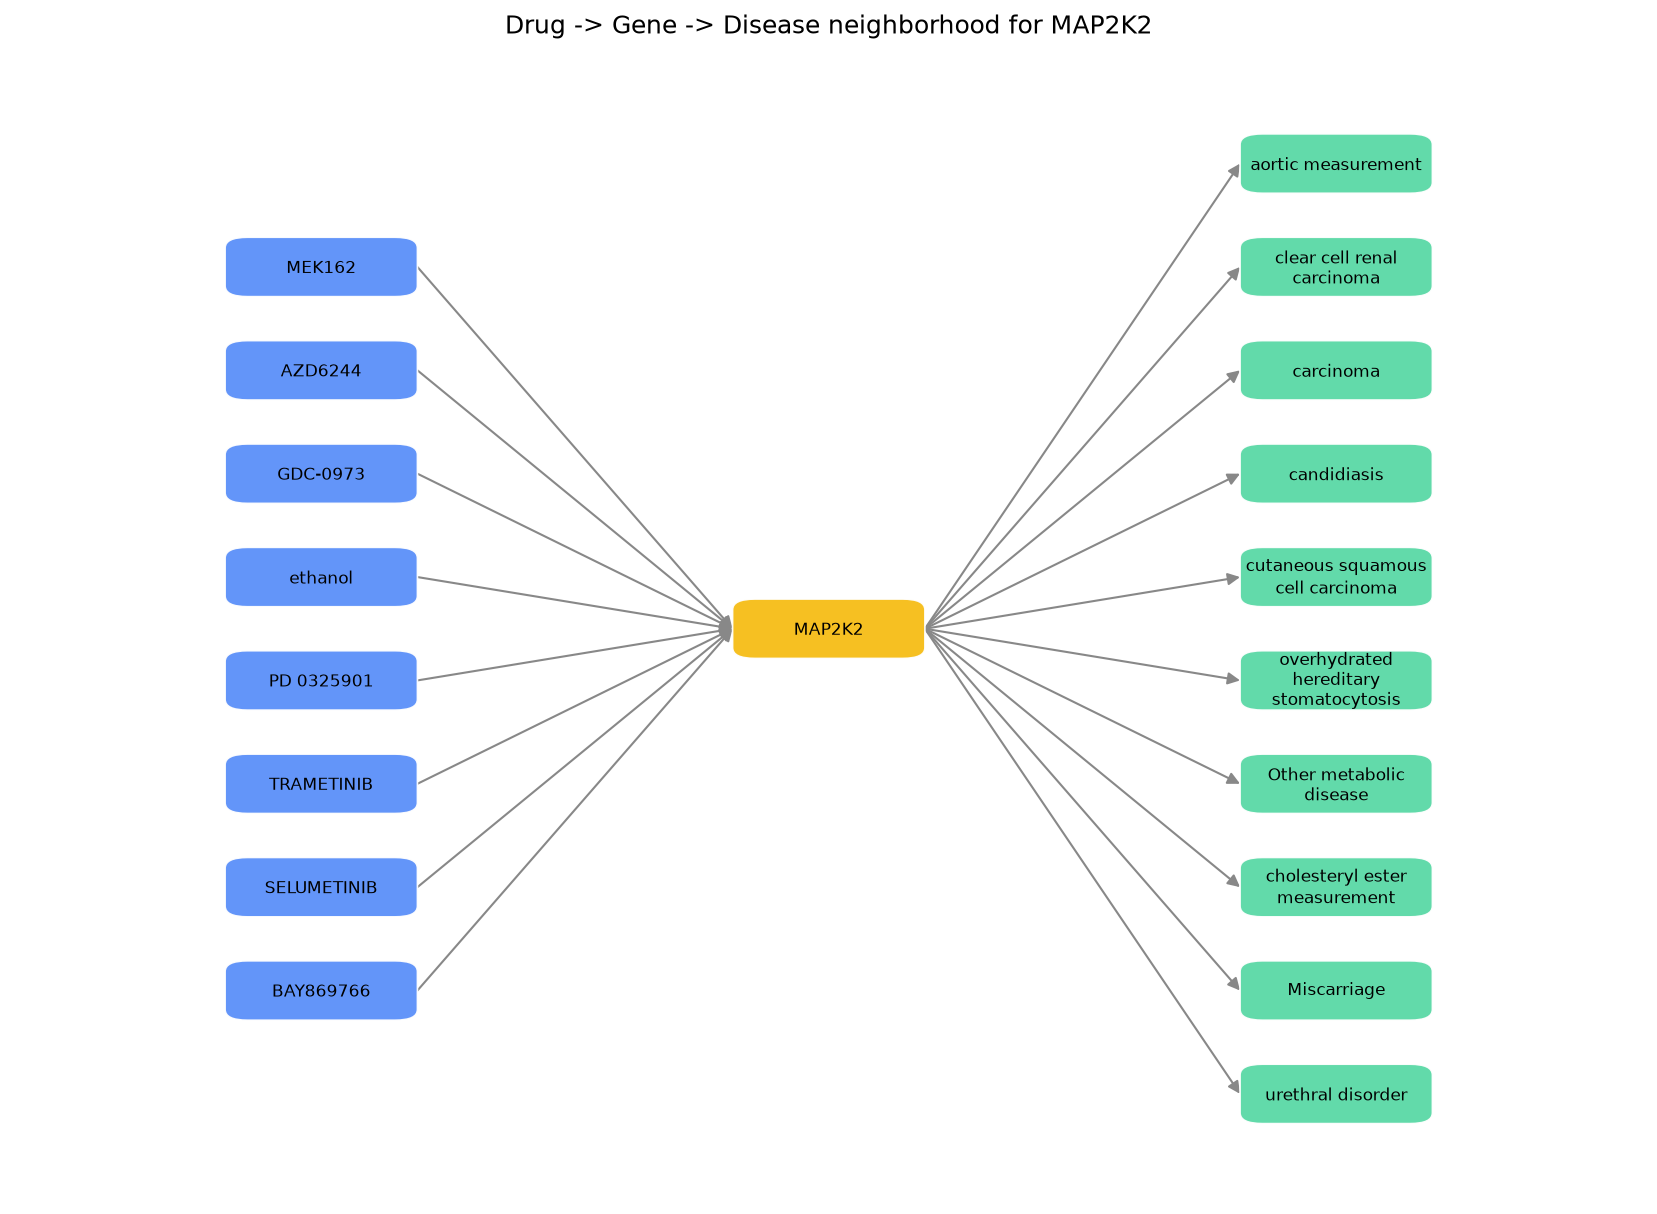
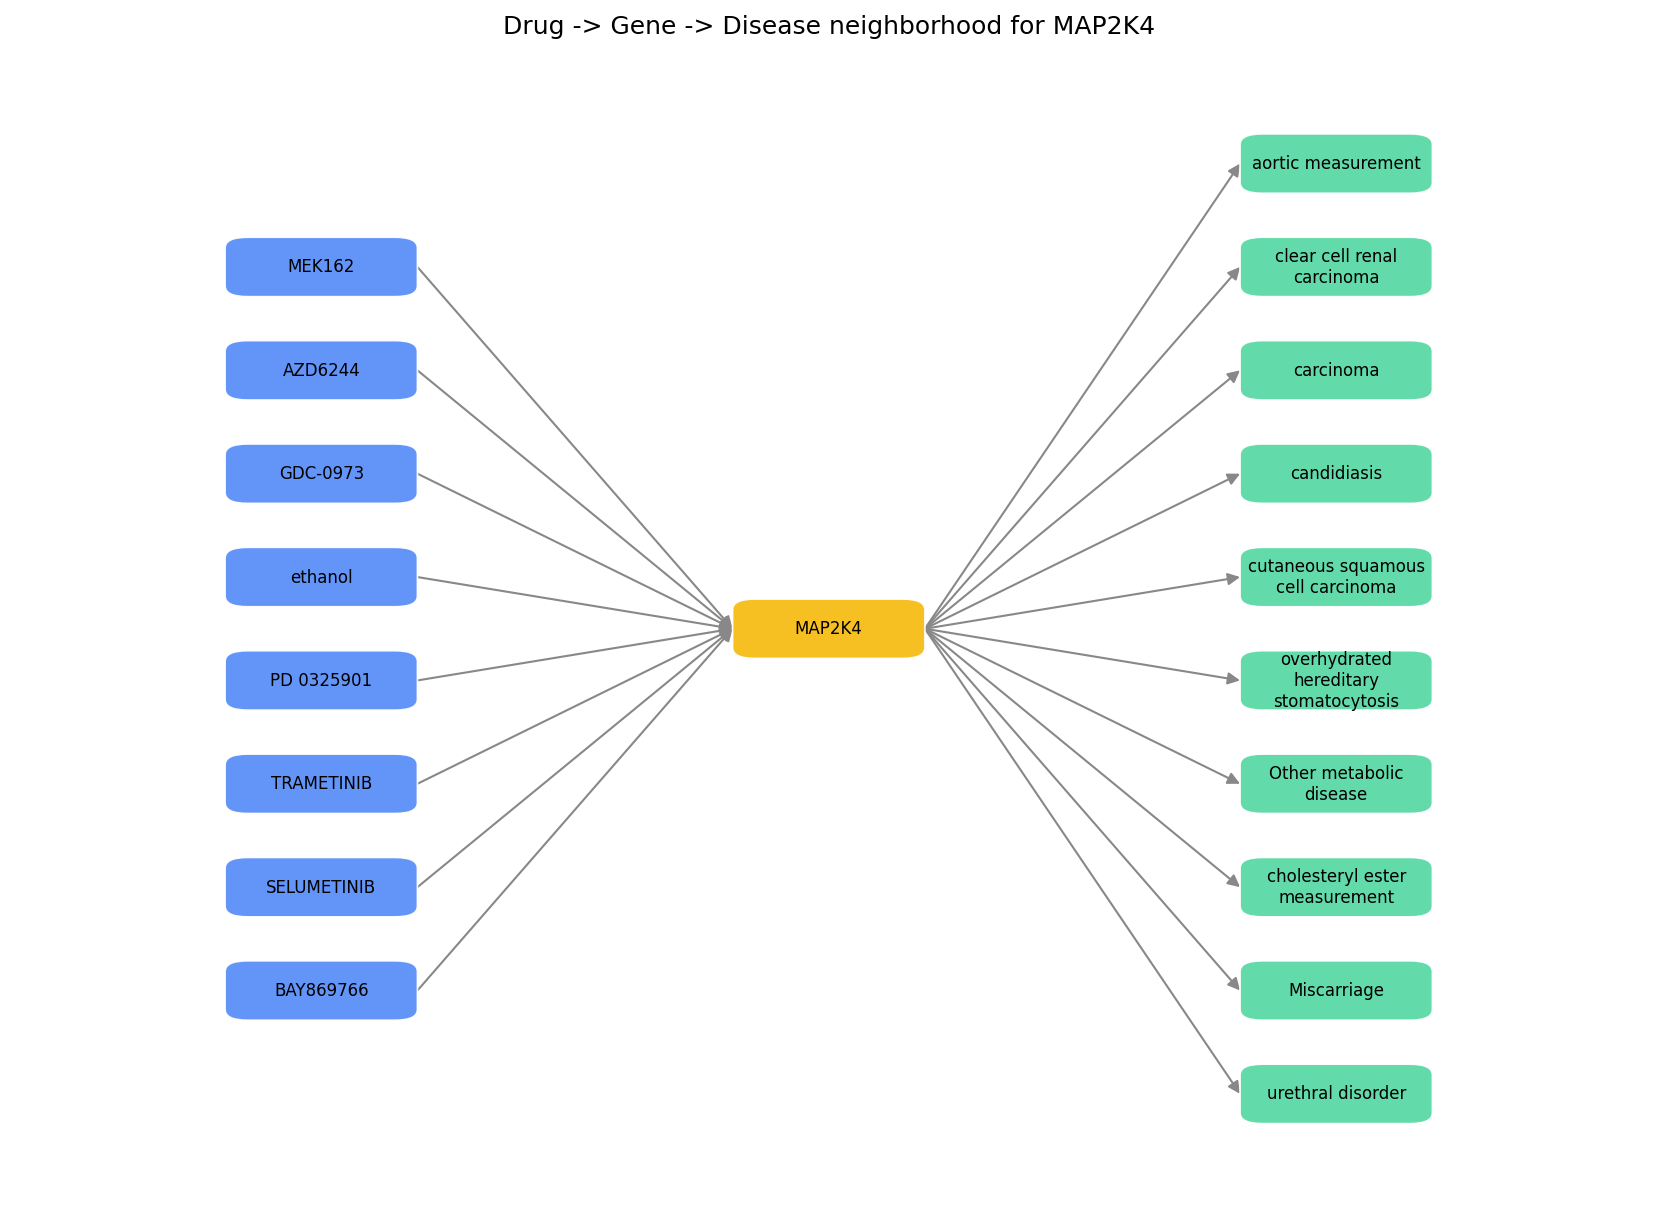
Fix demo gene label to MAP2K4 and update stale docs. NCBIGene:6416 is MAP2K4; drop the MAP2K2 override and refresh docs after the pipeline restructure.

diff --git a/src/visualize.py b/src/visualize.py
@@ -221,7 +221,8 @@ def draw_subgraph(gene, max_drugs, max_diseases, gene_name):
 if __name__ == "__main__":
     ap = argparse.ArgumentParser()
     ap.add_argument("--gene", default="NCBIGene:6416")
-    ap.add_argument("--gene-name", default="MAP2K2")
+    # Default to the name in nodes.csv. Only pass --gene-name to override it.
+    ap.add_argument("--gene-name", default=None)
     ap.add_argument("--max-drugs", type=int, default=8)
     ap.add_argument("--max-diseases", type=int, default=10)
     args = ap.parse_args()

diff --git a/output/before_after_examples.md b/output/before_after_examples.md
@@ -3,7 +3,7 @@
 Real examples from the generated output, showing how a raw source row becomes a
 Biolink style triple, and how two independent sources connect on a shared gene.
 
-The shared gene in these examples is NCBIGene:6416 (MAP2K2, also called MEK2).
+The shared gene in these examples is NCBIGene:6416 (MAP2K4, also called MKK4).
 
 ## Drug-gene interaction (from DGIdb)
 
@@ -11,7 +11,7 @@ Raw DGIdb row:
 
 ```
 gene_symbol,drug_name,interaction_type
-MAP2K2,TRAMETINIB,inhibitor
+MAP2K4,TRAMETINIB,inhibitor
 ```
 
 Becomes (one edge in edges.csv):
@@ -22,12 +22,17 @@ DRUG_NAME:TRAMETINIB,biolink:negatively_regulates,NCBIGene:6416,biolink:Chemical
 ```
 
 What happened in the mapping:
-- The gene symbol MAP2K2 was resolved to NCBIGene:6416 via the HGNC map.
+- The gene symbol MAP2K4 was resolved to NCBIGene:6416 via the HGNC map.
 - The source interaction type "inhibitor" was mapped to biolink:negatively_regulates.
 - The drug is the subject and the gene is the object, matching the drug-acts-on-gene direction.
 
-Several MEK inhibitors in the sample map to this same gene the same way, including
-Trametinib, Selumetinib, and Cobimetinib.
+Eight drugs in the sample map to this gene the same way, including Trametinib,
+Selumetinib, and Cobimetinib (listed as GDC-0973).
+
+Worth noting: those are MEK1/MEK2 inhibitors, and MAP2K4 is MKK4, a different kinase.
+DGIdb records the association, so the pipeline records it and keeps the source. Deciding
+whether an interaction is real is a curation question, not a mapping one, and the
+`knowledge_source` column is there so a consumer can weigh it.
 
 ## Gene-disease association (from Open Targets)
 
@@ -35,7 +40,7 @@ Raw Open Targets row:
 
 ```
 ensembl_id,disease_efo_id,association_score
-ENSG00000126934,EFO_0020865,...
+ENSG00000065559,EFO_0020865,...
 ```
 
 Becomes:
@@ -46,11 +51,12 @@ NCBIGene:6416,biolink:gene_associated_with_condition,EFO:0020865,biolink:Gene,bi
 ```
 
 What happened:
-- The Ensembl id ENSG00000126934 was resolved to NCBIGene:6416 via HGNC, the same id the
+- The Ensembl id ENSG00000065559 was resolved to NCBIGene:6416 via HGNC, the same id the
   gene received from the DGIdb side, so the two sources connect on one gene node.
 - The disease id was converted from underscore to colon form (EFO_0020865 to EFO:0020865).
   Some disease ids in the sample are then normalized to MONDO via release xrefs (see below);
-  ids without a unique xref (including EFO:0020865) stay in their original ontology.
+  ids without a unique xref (including EFO:0020865) stay in their original ontology and are
+  named from OLS4 instead. EFO:0020865 is "aortic measurement".
 
 ## Cross-ontology normalization to MONDO
 
@@ -64,7 +70,7 @@ id,category,name
 EFO:0009491,biolink:Disease,EFO:0009491
 ```
 
-After normalization + label enrichment:
+After normalization + naming:
 
 ```
 id,category,name
@@ -78,16 +84,19 @@ What happened:
 - HP, OBA, GO, and MP nodes are left unchanged (phenotype / non-disease ontologies).
 - Full report: `output/mondo_normalization.csv`.
 
-## MONDO disease name enrichment
+## Naming every disease node
 
-Open Targets also uses MONDO disease ids directly. Before enrichment, the node name was the raw id:
+Names come from two passes. MONDO nodes take their label from the release. Anything still
+showing its id after that is looked up in OLS4.
+
+Before:
 
 ```
 id,category,name
 MONDO:0002108,biolink:Disease,MONDO:0002108
 ```
 
-After lookup against MONDO release v2026-06-02 (`mondo_nodes.tsv`):
+After:
 
 ```
 id,category,name
@@ -95,9 +104,13 @@ MONDO:0002108,biolink:Disease,thyroid cancer
 ```
 
 What happened:
-- `mondo_nodes.tsv` maps `MONDO:0002108` → `thyroid cancer`.
-- After normalization, 824 MONDO disease nodes exist; 823 received labels. One obsolete
-  term (`MONDO:0700044`) keeps the raw id. Full report: `output/mondo_name_enrichment.csv`.
+- `mondo_nodes.tsv` maps `MONDO:0002108` to `thyroid cancer`.
+- 824 MONDO disease nodes exist after normalization; 823 were named from the release.
+  The one it missed, `MONDO:0700044`, is deprecated, and `load_mondo_labels` skips
+  deprecated terms by default. The OLS4 pass picked it up as
+  "obsolete TUBB2A-related tubulinopathy", which is why the two passes exist.
+- The remaining 272 non-MONDO ids (EFO, HP, OBA, GO, MP, Orphanet) were all named from OLS4.
+- Every disease node ends up with a readable name. Full report: `output/naming.csv`.
 
 ## Why this matters
 
@@ -106,11 +119,11 @@ edge share a node. That produces a connected path across two independently sourc
 
 ```
 DRUG_NAME:TRAMETINIB --negatively_regulates--> NCBIGene:6416 --gene_associated_with_condition--> MONDO:0002026
-       (DGIdb)                                   MAP2K2 / MEK2                                  (Open Targets)
+       (DGIdb)                                     MAP2K4                                        (Open Targets)
 ```
 
-(Many gene-disease edges in the graph now use MONDO ids with disease names; some EFO ids
-without a unique xref, such as EFO:0020865 for this gene, remain as EFO.)
+(Many gene-disease edges use MONDO ids; EFO ids without a unique xref, such as EFO:0020865
+for this gene, stay as EFO and are named from OLS4.)
 
 In the full output this one gene connects 8 drugs to 12 diseases, so the graph supports
 questions like "which diseases are associated with a gene that this drug inhibits," which is

diff --git a/data/ontology_labels/README.md b/data/ontology_labels/README.md
@@ -1,64 +1,63 @@
 # Non-MONDO ontology labels
 
-Human-readable names for the disease nodes that the MONDO pass leaves unnamed.
+Human-readable names for the disease nodes the MONDO pass leaves unnamed.
 
 ## Why this exists
 
-`mondo_normalize.py` maps EFO, DOID, Orphanet, and OTAR ids to MONDO where a
-unique xref exists, and `mondo_labels.py` names every node that became MONDO.
-Ids with no unique xref stay in their source ontology and keep the id as their
-name:
+Step 3 of the pipeline maps EFO, DOID, Orphanet, and OTAR ids to MONDO where a unique
+xref exists, and step 4 names every node that became MONDO. Ids with no unique xref stay
+in their source ontology and keep the id as their name:
 
 ```
 EFO:0006890,biolink:Disease,EFO:0006890
 HP:0040187,biolink:Disease,HP:0040187
 ```
 
-A node named `HP:0040187` is unusable — unreadable to a person, and any
-downstream consumer returns database codes where an answer belongs. Roughly a
-quarter of disease nodes are in this state after the MONDO pass.
+A node named `HP:0040187` is unusable. Unreadable to a person, and any downstream consumer
+returns database codes where an answer belongs. Roughly a quarter of disease nodes are in
+this state after the MONDO pass.
 
 ## Source
 
-Labels come from the **EBI Ontology Lookup Service (OLS4)**:
-<https://www.ebi.ac.uk/ols4>
+Labels come from the **EBI Ontology Lookup Service (OLS4)**: <https://www.ebi.ac.uk/ols4>
 
-One resolver covers every ontology still present after MONDO normalization
-(EFO, HP, OBA, GO, MP, Orphanet), rather than a downloader per ontology.
+One resolver covers every ontology still present after MONDO normalization (EFO, HP, OBA,
+GO, MP, Orphanet) rather than a downloader per ontology.
 
-Endpoint used: `https://www.ebi.ac.uk/ols4/api/terms?obo_id={CURIE}`
+Endpoint: `https://www.ebi.ac.uk/ols4/api/terms?obo_id={CURIE}`
 
-When several ontologies return the same `obo_id` (importing ontologies mirror
-each other's terms), the term is chosen by ranking non-obsolete above obsolete
-first, then the defining ontology above an importing one. Obsolete terms are
-labelled "obsolete <name>" in OLS, so a live label from an importing ontology
-is the more useful display name even though the defining ontology is more
-authoritative. The chosen ontology is recorded per row.
+When several ontologies return the same `obo_id`, because importing ontologies mirror each
+other's terms, the term is ranked non-obsolete first, then defining ontology. OLS names
+obsolete terms "obsolete <name>", so a live label from an importing ontology is the better
+display name even though the defining ontology is more authoritative. The chosen ontology is
+recorded per row.
 
 ## Fetch (committed)
 
 ```
-python src/fetch_ontology_labels.py
+python src/fetch.py labels
 ```
 
-Unlike `data/mondo/mondo_nodes.tsv` (~23 MB, gitignored), `labels.tsv` covers
-only the ids this graph actually contains and is small enough to commit. That
-keeps `ontology_labels.py` and `check_labels.py` fully offline and the pipeline
-reproducible without network access.
+Unlike `data/mondo/mondo_nodes.tsv` (~23 MB, gitignored), `labels.tsv` covers only the ids
+this graph contains and is small enough to commit. That keeps step 4 offline and the
+pipeline reproducible without network access.
 
-The fetch is resumable — ids already cached are skipped, including ids
-previously recorded as `not_found`. Re-query everything with `--refresh`, or
-smoke-test with `--limit 10`.
+It reads `output/nodes.csv` to decide which ids need a label, so the pipeline has to have
+run at least once first.
+
+The fetch is resumable. Ids already cached are skipped, including ids previously recorded
+as `not_found`. Re-query everything with `--refresh`, or smoke-test with `--limit 10`.
 
 ## Apply
 
+Naming happens in step 4 of the pipeline, using this cache:
+
 ```
-python src/ontology_labels.py            # writes output/nodes.csv
-python src/ontology_labels.py --dry-run  # report only
-python src/check_labels.py               # exits 1 if any node is still named by id
+python src/pipeline.py --hgnc hgnc_complete_set.txt --mondo-nodes data/mondo/mondo_nodes.tsv
+python src/validate.py     # exits 1 if any node is still named by its id
 ```
 
-Report: `output/ontology_name_enrichment.csv`
+Report: `output/naming.csv`, rows with `label_source=ols4`.
 
 ## Schema
 
@@ -75,10 +74,9 @@ Report: `output/ontology_name_enrichment.csv`
 
 ## A category observation
 
-Several ids reaching this stage are not diseases. Open Targets associates genes
-with HP and MP phenotypes, OBA attributes, and at least one GO biological
-process, all of which the ingest types as `biolink:Disease`.
+Several ids reaching this stage are not diseases. Open Targets associates genes with HP and
+MP phenotypes, OBA attributes, and one GO biological process, all of which the ingest types
+as `biolink:Disease`.
 
-`ontology_labels.py` reports this in the `suggested_category` column and changes
-nothing. Correcting the categories is a mapping decision, not a labelling one —
-see `mappings/mapping_decisions.md`.
+Step 4 reports this in the `suggested_category` column and changes nothing. Correcting the
+category is a mapping decision, not a labelling one. See `mappings/mapping_decisions.md`.

diff --git a/mappings/mapping_decisions.md b/mappings/mapping_decisions.md
@@ -45,18 +45,18 @@ Decisions made:
 Open Targets MONDO disease nodes were initially stored with the raw MONDO id as the display
 name (for example `MONDO:0002108`). The MONDO release asset `mondo_nodes.tsv`
 (v2026-06-02) provides authoritative id → label mappings. When `--mondo-nodes` is passed
-to `map_to_biolink.py`, MONDO-prefixed disease nodes are enriched with the release label
-(for example `breast carcinoma`). Obsolete MONDO terms are skipped for naming; unmatched
-ids keep the CURIE as the name.
+to `pipeline.py`, step 4 names MONDO-prefixed disease nodes from the release label
+(for example `breast carcinoma`). Obsolete MONDO terms are skipped in this pass, so
+anything the release does not name falls through to the OLS4 pass below.
 
 ### OLS4 labels for non-MONDO disease nodes (added)
 
 After MONDO naming, 273 of 1,096 disease nodes still displayed a bare CURIE (mostly EFO,
 plus HP, OBA, Orphanet, GO, MP, and one MONDO id absent from the pinned release). Those
 ids are resolved once against the EBI Ontology Lookup Service (OLS4) and cached in
-`data/ontology_labels/labels.tsv`. `ontology_labels.py` applies the cache offline and
-leaves already-named nodes untouched. All 273 resolved; `check_labels.py` confirms every
-disease node has a readable name.
+`data/ontology_labels/labels.tsv`. Step 4 applies the cache offline and leaves
+already-named nodes untouched. All 273 resolved, including the one deprecated MONDO id
+the release skipped. `validate.py` confirms every disease node has a readable name.
 
 ### Cross-ontology normalization to MONDO (added)
 
@@ -123,11 +123,11 @@ MP phenotypes, 29 OBA biological attributes, and one GO biological process
 (`GO:0009410`, response to xenobiotic stimulus). All carry `biolink:Disease` from the
 ingest.
 
-Decision: report the mismatch rather than silently rewriting it. `ontology_labels.py`
+Decision: report the mismatch rather than silently rewriting it. Step 4 of the pipeline
 emits a `suggested_category` column (`biolink:PhenotypicFeature` for HP/MP/OBA,
 `biolink:BiologicalProcessOrActivity` for GO). Splitting the category is a modelling
-change that affects edge semantics — a gene-phenotype association is not a gene-disease
-association — and belongs in its own pass, not in a labelling step.
+change that affects edge semantics, since a gene-phenotype association is not a
+gene-disease association, and belongs in its own pass rather than a labelling step.
 
 ## On modeling style
 

diff --git a/data/mondo/README.md b/data/mondo/README.md
@@ -1,34 +1,38 @@
 # MONDO disease labels
 
-MONDO release used for disease name lookup: **v2026-06-02**
+MONDO release used for disease normalization and naming: **v2026-06-02**
 
 - Release: https://github.com/monarch-initiative/mondo/releases/tag/v2026-06-02
-- Asset: `mondo_nodes.tsv` (id → name, plus synonyms and xrefs)
+- Asset: `mondo_nodes.tsv` (id -> name, plus synonyms and xrefs)
 
 ## Fetch (not committed)
 
 The full `mondo_nodes.tsv` (~23 MB) is gitignored. Download it once:
 
 ```
-python src/fetch_mondo_release.py
+python src/fetch.py mondo
 ```
 
 Or pass a different release tag:
 
 ```
-python src/fetch_mondo_release.py --release v2026-06-02 --out data/mondo/mondo_nodes.tsv
+python src/fetch.py mondo --release v2026-06-02 --out data/mondo/mondo_nodes.tsv
 ```
 
 ## Use in the pipeline
 
 ```
-python src/map_to_biolink.py --hgnc hgnc_complete_set.txt --mondo-nodes data/mondo/mondo_nodes.tsv
+python src/pipeline.py --hgnc hgnc_complete_set.txt --mondo-nodes data/mondo/mondo_nodes.tsv
 ```
 
-When `--mondo-nodes` is supplied, the pipeline:
+When `--mondo-nodes` is supplied, two steps use it:
 
-1. **Normalizes** EFO, DOID, Orphanet, and OTAR disease ids to MONDO using xrefs in the
-   release (report: `output/mondo_normalization.csv`). HP, OBA, GO, MP, and unmapped ids
-   are left unchanged.
-2. **Enriches** all MONDO disease nodes with human-readable labels (report:
-   `output/mondo_name_enrichment.csv`).
+1. **Step 3 normalizes** EFO, DOID, Orphanet, and OTAR disease ids to MONDO using xrefs in
+   the release. Ambiguous xrefs, where one external id points at more than one MONDO term,
+   are excluded and those ids stay put. HP, OBA, GO, MP, and unmapped ids are left unchanged.
+   Report: `output/mondo_normalization.csv`.
+2. **Step 4 names** the MONDO disease nodes from the release. Deprecated terms are skipped
+   here by default, so anything the release does not name falls through to the OLS4 pass.
+   Report: `output/naming.csv`, rows with `label_source=mondo_release`.
+
+`lookups.py` parses the file. `fetch.py` downloads it. `pipeline.py` uses it.

diff --git a/README.md b/README.md
@@ -6,7 +6,7 @@ interoperable biomedical knowledge graphs. The interesting part here are
 the mapping decisions: where a source does not map cleanly onto Biolink, those judgment
 calls are documented in [mappings/mapping_decisions.md](mappings/mapping_decisions.md).
 
-   ![Drug-gene-disease neighborhood for MAP2K2](figures/subgraph_6416.png)
+   ![Drug-gene-disease neighborhood for MAP2K4](figures/subgraph_6416.png)
 
 ## Demo
 
